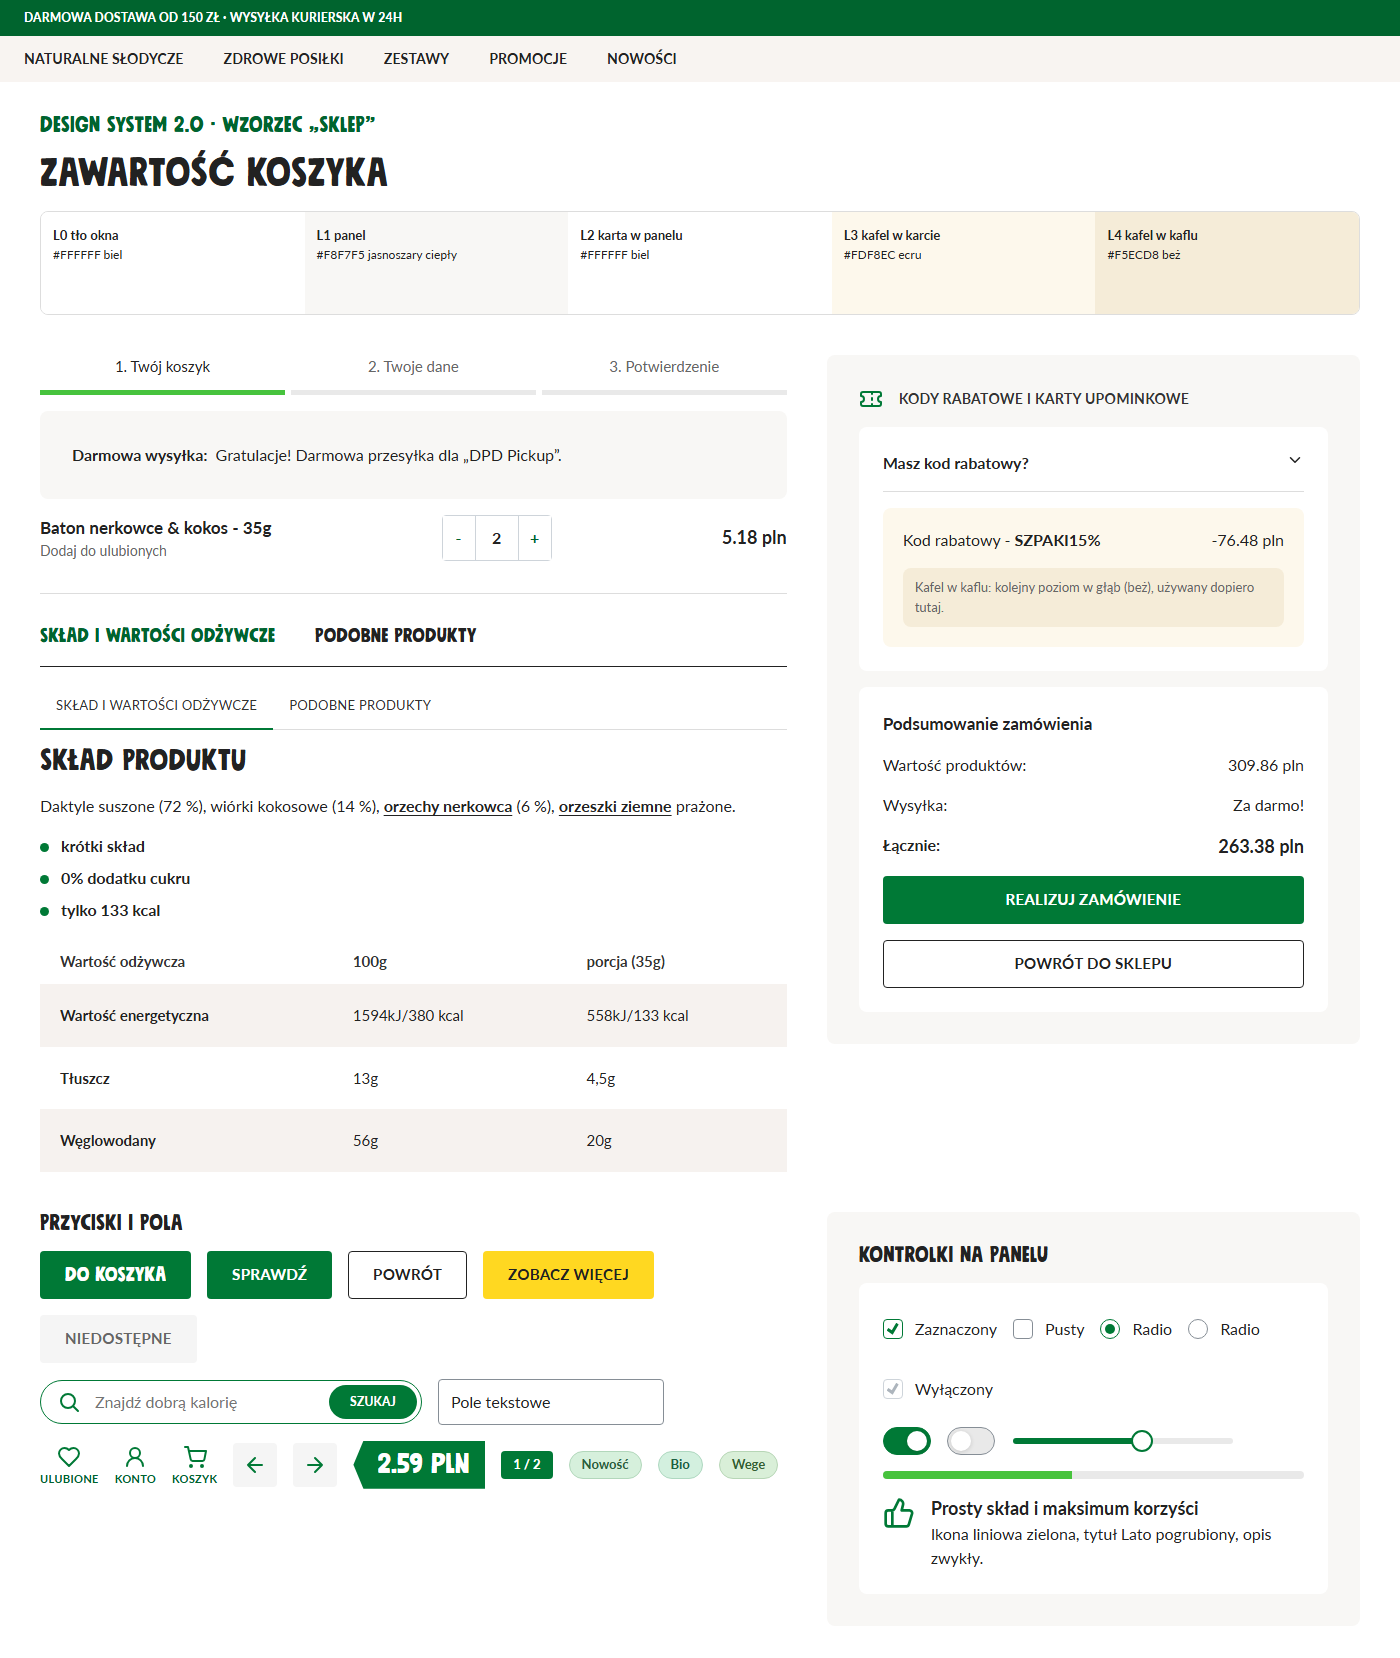
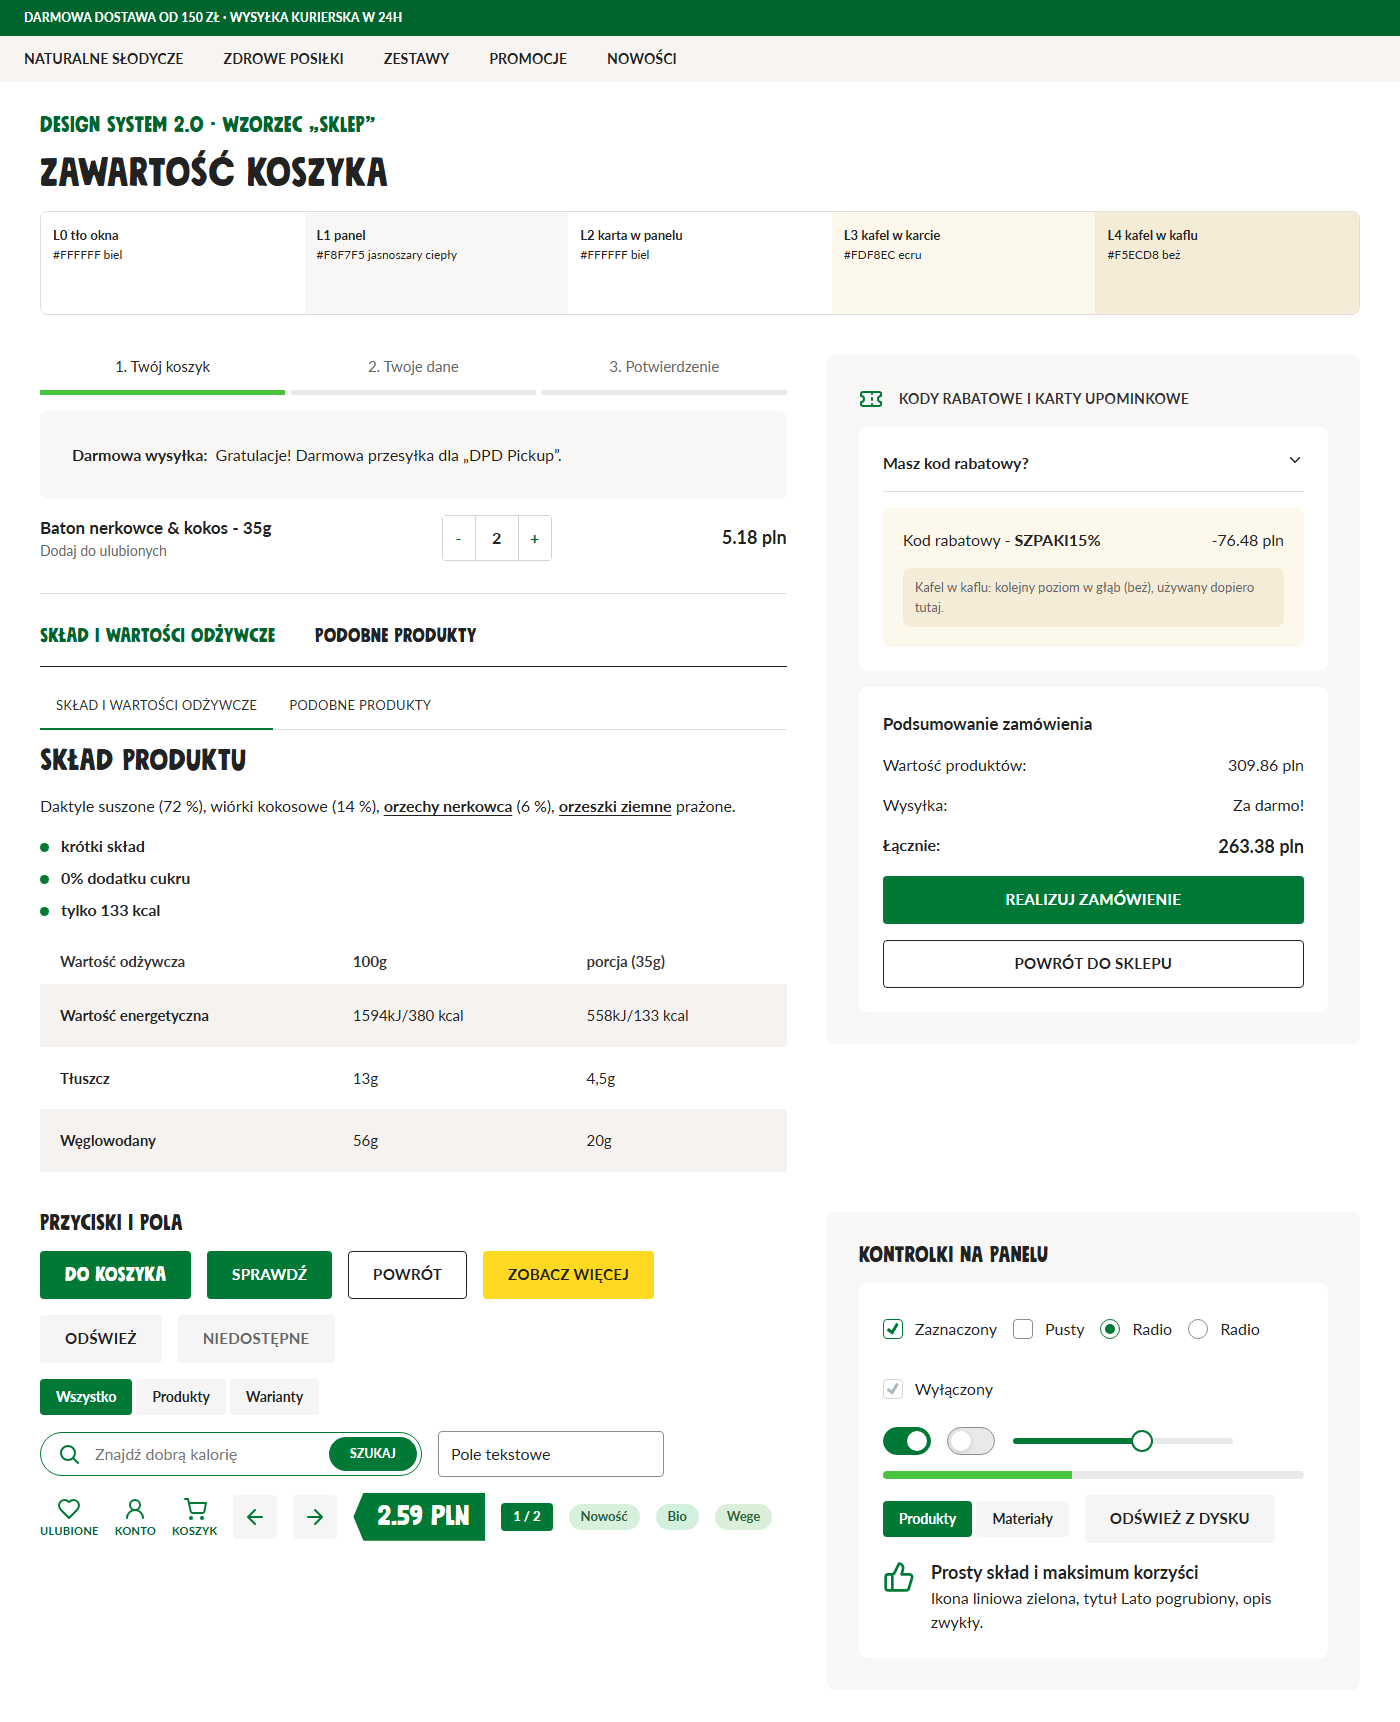
Design system 2.0.1: reguła S13 „budżet obrysów”
Uwaga usera po obejrzeniu DAM: tagi z obrysami i nadmiar obrysów wyglądają źle.
Obrys 1 px zostaje tylko na polu, checkboxie, jednym przycisku drugorzędnym w grupie,
białej karcie na białym tle i fokusie. Tagi, metki, pigułki filtrów, liczniki, panele
i przyciski-ikony bez obrysu.

- .dk-tag: samo wypełnienie
- nowe przepisy: .dk-btn--quiet (przycisk cichy), .dk-seg (przełącznik segmentowy)
- READY-2.0.0.txt: S13, ZALECENIA-USERA.md: słowa usera
- dokumentacja 2.0.0 (SKILL, DESIGN_SYSTEM, IDENTYFIKACJA, components rozdz. 25)

diff --git a/design-system/preview/sklep.html b/design-system/preview/sklep.html
@@ -49,6 +49,18 @@
 .dk-btn--display { font: 400 20px/1 var(--dk-font-display); letter-spacing: .01em; }   /* jak „DO KOSZYKA” */
 .dk-btn:disabled { background: var(--dk-color-disabled-bg); color: var(--dk-color-text-muted); border-color: transparent; cursor: not-allowed; }
 .dk-btn--block { display: flex; width: 100%; }
+/* S13: przycisk cichy (trzeciorzędny) - samo wypełnienie, bez obrysu; w grupie najwyżej 1 główny i 1 z obrysem, reszta cicha */
+.dk-btn--quiet { background: var(--dk-color-icon-bg); color: var(--dk-color-text); }
+.dk-panel .dk-btn--quiet, .dk-panel .dk-iconbtn { background: var(--dk-color-surface-2); }
+.dk-card .dk-btn--quiet, .dk-card .dk-iconbtn, .dk-tile .dk-btn--quiet { background: var(--dk-color-icon-bg); }
+.dk-btn--quiet:hover, .dk-panel .dk-btn--quiet:hover, .dk-card .dk-btn--quiet:hover { background: var(--dk-color-brand-soft); }
+/* S13: przełącznik segmentowy (filtry „Wszystko / Produkty”) - aktywny zielony, nieaktywny cichy, bez obrysów */
+.dk-seg { display: inline-flex; gap: 4px; }
+.dk-seg > button { min-height: 36px; padding: 0 var(--dk-space-4); border: 0; border-radius: var(--dk-radius-btn); cursor: pointer;
+  background: var(--dk-color-icon-bg); color: var(--dk-color-text); font: 700 14px/1 var(--dk-font-text); }
+.dk-panel .dk-seg > button { background: var(--dk-color-surface-2); }
+.dk-card .dk-seg > button, .dk-tile .dk-seg > button { background: var(--dk-color-icon-bg); }
+.dk-seg > button[aria-pressed="true"] { background: var(--dk-color-brand); color: var(--dk-color-on-brand); }
 
 /* ikony: liniowe (Lucide), kreska 2, zieleń marki; przycisk-ikona kwadratowy */
 .dk-icon { width: 24px; height: 24px; fill: none; stroke: var(--dk-color-icon); stroke-width: var(--dk-control-stroke-icon);
@@ -126,7 +138,7 @@
 .dk-chip { display: inline-flex; align-items: center; min-height: 28px; padding: 0 var(--dk-space-3); border-radius: var(--dk-radius-sm);
   background: var(--dk-color-brand); color: var(--dk-color-on-brand); font: 700 13px/1 var(--dk-font-text); }
 .dk-tag { display: inline-flex; align-items: center; min-height: 26px; padding: 0 var(--dk-space-3); border-radius: var(--dk-radius-pill);
-  font: 700 13px/1 var(--dk-font-text); border: 1px solid; }
+  font: 700 13px/1 var(--dk-font-text); border: 0; }   /* S13: tag bez obrysu */
 .dk-price { font: 400 28px/1 var(--dk-font-display); background: var(--dk-color-brand); color: var(--dk-color-on-brand); padding: 10px 16px 10px 24px;
   clip-path: polygon(10px 0, 100% 0, 100% 100%, 10px 100%, 0 50%); display: inline-block; }
 
@@ -215,7 +227,8 @@ body { margin: 0; }
     <div class="stack">
       <h3 class="dk-h3">Przyciski i pola</h3>
       <div class="row"><button class="dk-btn dk-btn--primary dk-btn--display">Do koszyka</button><button class="dk-btn dk-btn--primary">Sprawdź</button>
-        <button class="dk-btn dk-btn--secondary">Powrót</button><button class="dk-btn dk-btn--cta">Zobacz więcej</button><button class="dk-btn" disabled>Niedostępne</button></div>
+        <button class="dk-btn dk-btn--secondary">Powrót</button><button class="dk-btn dk-btn--cta">Zobacz więcej</button><button class="dk-btn dk-btn--quiet">Odśwież</button><button class="dk-btn" disabled>Niedostępne</button></div>
+      <div class="row"><div class="dk-seg"><button aria-pressed="true">Wszystko</button><button aria-pressed="false">Produkty</button><button aria-pressed="false">Warianty</button></div></div>
       <div class="row"><div class="dk-search" style="width:360px"><svg class="dk-icon" viewBox="0 0 24 24"><circle cx="11" cy="11" r="7"/><path d="m21 21-4.3-4.3"/></svg><input placeholder="Znajdź dobrą kalorię"><button class="dk-btn dk-btn--primary">Szukaj</button></div>
         <input class="dk-input" value="Pole tekstowe" style="width:200px"></div>
       <div class="row">
@@ -225,9 +238,9 @@ body { margin: 0; }
         <button class="dk-iconbtn" aria-label="wstecz"><svg class="dk-icon" viewBox="0 0 24 24"><path d="M19 12H5M12 19l-7-7 7-7"/></svg></button>
         <button class="dk-iconbtn" aria-label="dalej"><svg class="dk-icon" viewBox="0 0 24 24"><path d="M5 12h14M12 5l7 7-7 7"/></svg></button>
         <span class="dk-price">2.59 PLN</span><span class="dk-chip">1 / 2</span>
-        <span class="dk-tag" style="background:var(--dk-color-tag-1-bg);color:var(--dk-color-tag-1-fg);border-color:var(--dk-color-tag-1-border)">Nowość</span>
-        <span class="dk-tag" style="background:var(--dk-color-tag-2-bg);color:var(--dk-color-tag-2-fg);border-color:var(--dk-color-tag-2-border)">Bio</span>
-        <span class="dk-tag" style="background:var(--dk-color-tag-3-bg);color:var(--dk-color-tag-3-fg);border-color:var(--dk-color-tag-3-border)">Wege</span>
+        <span class="dk-tag" style="background:var(--dk-color-tag-1-bg);color:var(--dk-color-tag-1-fg)">Nowość</span>
+        <span class="dk-tag" style="background:var(--dk-color-tag-2-bg);color:var(--dk-color-tag-2-fg)">Bio</span>
+        <span class="dk-tag" style="background:var(--dk-color-tag-3-bg);color:var(--dk-color-tag-3-fg)">Wege</span>
       </div>
     </div>
     <div class="dk-panel stack">
@@ -239,6 +252,7 @@ body { margin: 0; }
         <div class="row"><label class="dk-switch"><input type="checkbox" checked><span></span></label><label class="dk-switch"><input type="checkbox"><span></span></label>
           <input type="range" class="dk-slider" style="--v:60%" value="60"></div>
         <div class="dk-progress"><i style="width:45%"></i></div>
+        <div class="row"><div class="dk-seg"><button aria-pressed="true">Produkty</button><button aria-pressed="false">Materiały</button></div><button class="dk-btn dk-btn--quiet">Odśwież z dysku</button></div>
         <div class="dk-feature"><svg class="dk-icon" viewBox="0 0 24 24"><path d="M7 10v12M15 5.9 14 10h5.8a2 2 0 0 1 2 2.5l-2.4 8a2 2 0 0 1-1.9 1.5H4a2 2 0 0 1-2-2v-8a2 2 0 0 1 2-2h2.8a2 2 0 0 0 1.8-1.1L12 2a3.1 3.1 0 0 1 3 3.9Z"/></svg>
           <div><b>Prosty skład i maksimum korzyści</b><span>Ikona liniowa zielona, tytuł Lato pogrubiony, opis zwykły.</span></div></div>
       </div>

diff --git a/design-system/tokens/tokens.css b/design-system/tokens/tokens.css
@@ -1,4 +1,4 @@
-/* Design system Dobra Kaloria 2.0.0 (2026-10-06) - PLIK GENEROWANY z tokens.json (scripts/build_tokens.py). Nie edytuj ręcznie. */
+/* Design system Dobra Kaloria 2.0.1 (2026-10-06) - PLIK GENEROWANY z tokens.json (scripts/build_tokens.py). Nie edytuj ręcznie. */
 /* Drabina powierzchni: --dk-color-surface-0 (tło okna) ... -4 (nakładka); tagi: --dk-color-tag-N-bg/-fg/-border. */
 :root, [data-theme="dobra-kaloria"] {
   color-scheme: light;

diff --git a/design-system/themes/dam/dam-theme-dobra-kaloria.css b/design-system/themes/dam/dam-theme-dobra-kaloria.css
@@ -1,4 +1,4 @@
-/* Motyw "Dobra Kaloria" dla DAM - PLIK GENEROWANY (design system Dobra Kaloria 2.0.0).
+/* Motyw "Dobra Kaloria" dla DAM - PLIK GENEROWANY (design system Dobra Kaloria 2.0.1).
    Status: szkic - nie renderowany w DAM. Nakładka na istniejące zmienne --dam-*: komponentów nie przepisujemy,
    motywy light i dark zostają bez zmian. Wdrożenie: themes/dam/README.md. */
 html[data-theme="dobra-kaloria"] {

diff --git a/design-system/scripts/patch_2_0_1.py b/design-system/scripts/patch_2_0_1.py
@@ -1,0 +1,87 @@
+# -*- coding: utf-8 -*-
+"""Jednorazowa łatka 2.0.0 -> 2.0.1: reguła S13 „budżet obrysów” (uwaga usera z 06.10.2026 po obejrzeniu DAM).
+Tagi i pigułki bez obrysu, nowy przycisk cichy (.dk-btn--quiet) i przełącznik segmentowy (.dk-seg). Idempotentna."""
+import io
+import os
+import re
+
+BASE = os.path.dirname(os.path.dirname(os.path.abspath(__file__)))
+
+
+def rd(rel):
+    return io.open(os.path.join(BASE, rel), encoding="utf8", newline="").read()
+
+
+def wr(rel, s):
+    io.open(os.path.join(BASE, rel), "w", encoding="utf8", newline="").write(s)
+
+
+QUIET = (
+    ".dk-btn--block { display: flex; width: 100%; }\n"
+    "/* S13: przycisk cichy (trzeciorzędny) - samo wypełnienie, bez obrysu; w grupie najwyżej 1 główny i 1 z obrysem, reszta cicha */\n"
+    ".dk-btn--quiet { background: var(--dk-color-icon-bg); color: var(--dk-color-text); }\n"
+    ".dk-panel .dk-btn--quiet, .dk-panel .dk-iconbtn { background: var(--dk-color-surface-2); }\n"
+    ".dk-card .dk-btn--quiet, .dk-card .dk-iconbtn, .dk-tile .dk-btn--quiet { background: var(--dk-color-icon-bg); }\n"
+    ".dk-btn--quiet:hover, .dk-panel .dk-btn--quiet:hover, .dk-card .dk-btn--quiet:hover { background: var(--dk-color-brand-soft); }\n"
+    "/* S13: przełącznik segmentowy (filtry „Wszystko / Produkty”) - aktywny zielony, nieaktywny cichy, bez obrysów */\n"
+    ".dk-seg { display: inline-flex; gap: 4px; }\n"
+    ".dk-seg > button { min-height: 36px; padding: 0 var(--dk-space-4); border: 0; border-radius: var(--dk-radius-btn); cursor: pointer;\n"
+    "  background: var(--dk-color-icon-bg); color: var(--dk-color-text); font: 700 14px/1 var(--dk-font-text); }\n"
+    ".dk-panel .dk-seg > button { background: var(--dk-color-surface-2); }\n"
+    ".dk-seg > button[aria-pressed=\"true\"] { background: var(--dk-color-brand); color: var(--dk-color-on-brand); }\n"
+)
+for rel in ("preview/sklep.html", "components.md"):
+    s = rd(rel)
+    nl = "\r\n" if "\r\n" in s else "\n"
+    s = s.replace("font: 700 13px/1 var(--dk-font-text); border: 1px solid; }",
+                  "font: 700 13px/1 var(--dk-font-text); border: 0; }   /* S13: tag bez obrysu */")
+    if ".dk-btn--quiet" not in s:
+        s = s.replace(".dk-btn--block { display: flex; width: 100%; }" + nl, QUIET.replace("\n", nl), 1)
+    wr(rel, s)
+
+s = rd("preview/sklep.html")
+s = re.sub(r";border-color:var\(--dk-color-tag-\d-border\)", "", s)
+if "dk-seg" not in s.split("</style>")[1]:
+    s = s.replace('<button class="dk-btn" disabled>Niedostępne</button></div>',
+                  '<button class="dk-btn dk-btn--quiet">Odśwież</button><button class="dk-btn" disabled>Niedostępne</button></div>\n'
+                  '      <div class="row"><div class="dk-seg"><button aria-pressed="true">Wszystko</button><button aria-pressed="false">Produkty</button>'
+                  '<button aria-pressed="false">Warianty</button></div></div>', 1)
+    s = s.replace('<div class="dk-feature">',
+                  '<div class="row"><div class="dk-seg"><button aria-pressed="true">Produkty</button><button aria-pressed="false">Materiały</button></div>'
+                  '<button class="dk-btn dk-btn--quiet">Odśwież z dysku</button></div>\n        <div class="dk-feature">', 1)
+wr("preview/sklep.html", s)
+
+r = rd("tokens/READY-2.0.0.txt")
+if "S13" not in r:
+    nl = "\r\n" if "\r\n" in r else "\n"
+    add = (
+        "  S13 BUDŻET OBRYSÓW (2.0.1; user 06.10 o DAM: „bubble tagi wyglądają okropnie z tymi obrysami, za dużo obrysów”).\n"
+        "      Obrys 1 px wolno dać TYLKO na: pole formularza, checkbox/radio, JEDEN przycisk drugorzędny w grupie przycisków,\n"
+        "      białą kartę leżącą wprost na białym tle, fokus. BEZ obrysu: tagi, metki, pigułki filtrów, liczniki, panele,\n"
+        "      karty w panelu, kafle, przyciski-ikony, nagłówki zwijanych sekcji. Tag = samo wypełnienie (tag-N-bg + tag-N-fg).\n"
+        "      Przycisk cichy (trzeciorzędny): wypełnienie #F5F5F5 na bieli / #FFFFFF na panelu, bez obrysu, tekst #222222,\n"
+        "      hover brand-soft. Przełącznik segmentowy: aktywny zielony z białym tekstem, nieaktywny jak przycisk cichy.\n"
+        "      Żadnej sepii: beż tylko jako L3/L4, nigdy jako kolor obrysu, metki czy tekstu w stylach jasnych.\n"
+    ).replace("\n", nl)
+    r = r.replace("  ZOSTAJE z wcześniejszych rund:", add + "  ZOSTAJE z wcześniejszych rund:", 1)
+    r = r.replace("REGUŁY 2.0 (S1-S12)", "REGUŁY 2.0 (S1-S13; S13 dodana w 2.0.1)", 1)
+    wr("tokens/READY-2.0.0.txt", r)
+
+z = rd("ZALECENIA-USERA.md")
+if "S13" not in z:
+    nl = "\r\n" if "\r\n" in z else "\n"
+    z = z.rstrip() + (
+        "\n\n## 06.10.2026 — po obejrzeniu DAM 2.5.4 (stary, brązowy wygląd): mniej obrysów\n\n"
+        "> „…to DAM wygląda okropnie. Jak SEPIA. A te bubble tagi wyglądają okropnie z tymi obrysami, za dużo obrysów,\n"
+        "> wszystko wygląda okropnie brzydko. […] w ogóle nie o to chodziło.”\n\n"
+        "- **S13 budżet obrysów** (DS 2.0.1): obrys tylko na polu, checkboxie, jednym przycisku drugorzędnym w grupie, białej\n"
+        "  karcie na białym tle i fokusie. Tagi, metki, pigułki filtrów, liczniki, panele, kafle, przyciski-ikony: bez obrysu.\n"
+        "- **Żadnej sepii:** beż nie jest kolorem obrysu, metki ani tekstu w stylach jasnych; występuje tylko jako kafel L3/L4.\n"
+        "- Przepisy: `.dk-tag` (samo wypełnienie), `.dk-btn--quiet`, `.dk-seg` w `components.md` rozdz. 25 i `preview/sklep.html`.\n"
+    ).replace("\n", nl)
+    wr("ZALECENIA-USERA.md", z)
+
+t = rd("tokens/tokens.json")
+t = t.replace('"version": "2.0.0"', '"version": "2.0.1"', 1)
+wr("tokens/tokens.json", t)
+print("2.0.1: S13 dopisana (sklep.html, components.md, READY-2.0.0.txt, ZALECENIA-USERA.md, tokens.json)")

diff --git a/design-system/tokens/tokens_qt.py b/design-system/tokens/tokens_qt.py
@@ -1,5 +1,5 @@
 # -*- coding: utf-8 -*-
-"""Tokeny Dobra Kaloria 2.0.0 dla Qt/QSS - PLIK GENEROWANY z tokens.json. Użycie: QSS_SZABLON.format(**T).
+"""Tokeny Dobra Kaloria 2.0.1 dla Qt/QSS - PLIK GENEROWANY z tokens.json. Użycie: QSS_SZABLON.format(**T).
 
 T              program (biała kartka) - pełny zestaw: kolory, odstępy, czcionki, drabina, tagi
 T_KREM_JASNY   Dobra Kaloria 2 · krem, jasny   (role + drabina + tagi; nazwy jak w T)

diff --git a/design-system/themes/photo-resizer/dobra_kaloria.py b/design-system/themes/photo-resizer/dobra_kaloria.py
@@ -1,5 +1,5 @@
 # -*- coding: utf-8 -*-
-"""Motyw "Dobra Kaloria" dla Inyfinn Photo Resizer - PLIK GENEROWANY (design system Dobra Kaloria 2.0.0).
+"""Motyw "Dobra Kaloria" dla Inyfinn Photo Resizer - PLIK GENEROWANY (design system Dobra Kaloria 2.0.1).
 Status: szkic - nie renderowany w aplikacji. Wdrożenie: themes/photo-resizer/README.md.
 """
 DOBRA_KALORIA = {

diff --git a/design-system/components.md b/design-system/components.md
@@ -1199,6 +1199,18 @@ Główny: zielony pełny, biały tekst Lato 700 wersalikami, promień 4, hover `
 .dk-btn--display { font: 400 20px/1 var(--dk-font-display); letter-spacing: .01em; }   /* jak „DO KOSZYKA” */
 .dk-btn:disabled { background: var(--dk-color-disabled-bg); color: var(--dk-color-text-muted); border-color: transparent; cursor: not-allowed; }
 .dk-btn--block { display: flex; width: 100%; }
+/* S13: przycisk cichy (trzeciorzędny) - samo wypełnienie, bez obrysu; w grupie najwyżej 1 główny i 1 z obrysem, reszta cicha */
+.dk-btn--quiet { background: var(--dk-color-icon-bg); color: var(--dk-color-text); }
+.dk-panel .dk-btn--quiet, .dk-panel .dk-iconbtn { background: var(--dk-color-surface-2); }
+.dk-card .dk-btn--quiet, .dk-card .dk-iconbtn, .dk-tile .dk-btn--quiet { background: var(--dk-color-icon-bg); }
+.dk-btn--quiet:hover, .dk-panel .dk-btn--quiet:hover, .dk-card .dk-btn--quiet:hover { background: var(--dk-color-brand-soft); }
+/* S13: przełącznik segmentowy (filtry „Wszystko / Produkty”) - aktywny zielony, nieaktywny cichy, bez obrysów */
+.dk-seg { display: inline-flex; gap: 4px; }
+.dk-seg > button { min-height: 36px; padding: 0 var(--dk-space-4); border: 0; border-radius: var(--dk-radius-btn); cursor: pointer;
+  background: var(--dk-color-icon-bg); color: var(--dk-color-text); font: 700 14px/1 var(--dk-font-text); }
+.dk-panel .dk-seg > button { background: var(--dk-color-surface-2); }
+.dk-card .dk-seg > button, .dk-tile .dk-seg > button { background: var(--dk-color-icon-bg); }
+.dk-seg > button[aria-pressed="true"] { background: var(--dk-color-brand); color: var(--dk-color-on-brand); }
 ```
 
 ```css
@@ -1381,7 +1393,7 @@ tle ze ściętym lewym rogiem.
 .dk-chip { display: inline-flex; align-items: center; min-height: 28px; padding: 0 var(--dk-space-3); border-radius: var(--dk-radius-sm);
   background: var(--dk-color-brand); color: var(--dk-color-on-brand); font: 700 13px/1 var(--dk-font-text); }
 .dk-tag { display: inline-flex; align-items: center; min-height: 26px; padding: 0 var(--dk-space-3); border-radius: var(--dk-radius-pill);
-  font: 700 13px/1 var(--dk-font-text); border: 1px solid; }
+  font: 700 13px/1 var(--dk-font-text); border: 0; }   /* S13: tag bez obrysu */
 .dk-price { font: 400 28px/1 var(--dk-font-display); background: var(--dk-color-brand); color: var(--dk-color-on-brand); padding: 10px 16px 10px 24px;
   clip-path: polygon(10px 0, 100% 0, 100% 100%, 10px 100%, 0 50%); display: inline-block; }
 ```

diff --git a/design-system/ZALECENIA-USERA.md b/design-system/ZALECENIA-USERA.md
@@ -137,3 +137,13 @@ Reguły z tego wynikające (pełny opis: `tokens/READY-2.0.0.txt` S1-S12, pomiar
 Co ta runda UCHYLA (kolor; historia zostaje wyżej, oznaczona): „zero zieleni w tekście”, „zieleń tylko logo/splash/KPI/status”
 (G2, G3), tekst brązowy `#3B2A20` i brązowy akcent, przycisk drugorzędny z brązowym obrysem (G4), suwak, przełącznik
 i krokomierz w brązie (G5, G6), kremowa karta jako poziom 1, „brak czystej bieli na żadnym poziomie”, L4 jako nakładka.
+
+## 06.10.2026 — po obejrzeniu DAM 2.5.4 (stary, brązowy wygląd): mniej obrysów
+
+> „…to DAM wygląda okropnie. Jak SEPIA. A te bubble tagi wyglądają okropnie z tymi obrysami, za dużo obrysów,
+> wszystko wygląda okropnie brzydko. […] w ogóle nie o to chodziło.”
+
+- **S13 budżet obrysów** (DS 2.0.1): obrys tylko na polu, checkboxie, jednym przycisku drugorzędnym w grupie, białej
+  karcie na białym tle i fokusie. Tagi, metki, pigułki filtrów, liczniki, panele, kafle, przyciski-ikony: bez obrysu.
+- **Żadnej sepii:** beż nie jest kolorem obrysu, metki ani tekstu w stylach jasnych; występuje tylko jako kafel L3/L4.
+- Przepisy: `.dk-tag` (samo wypełnienie), `.dk-btn--quiet`, `.dk-seg` w `components.md` rozdz. 25 i `preview/sklep.html`.

diff --git a/design-system/tokens/tokens.md b/design-system/tokens/tokens.md
@@ -1,4 +1,4 @@
-# Tokeny Dobra Kaloria 2.0.0
+# Tokeny Dobra Kaloria 2.0.1
 
 PLIK GENEROWANY z `tokens.json` (`scripts/build_tokens.py`). Zasady użycia: `../DESIGN_SYSTEM.md`, `../IDENTYFIKACJA-WIZUALNA.md`.
 
